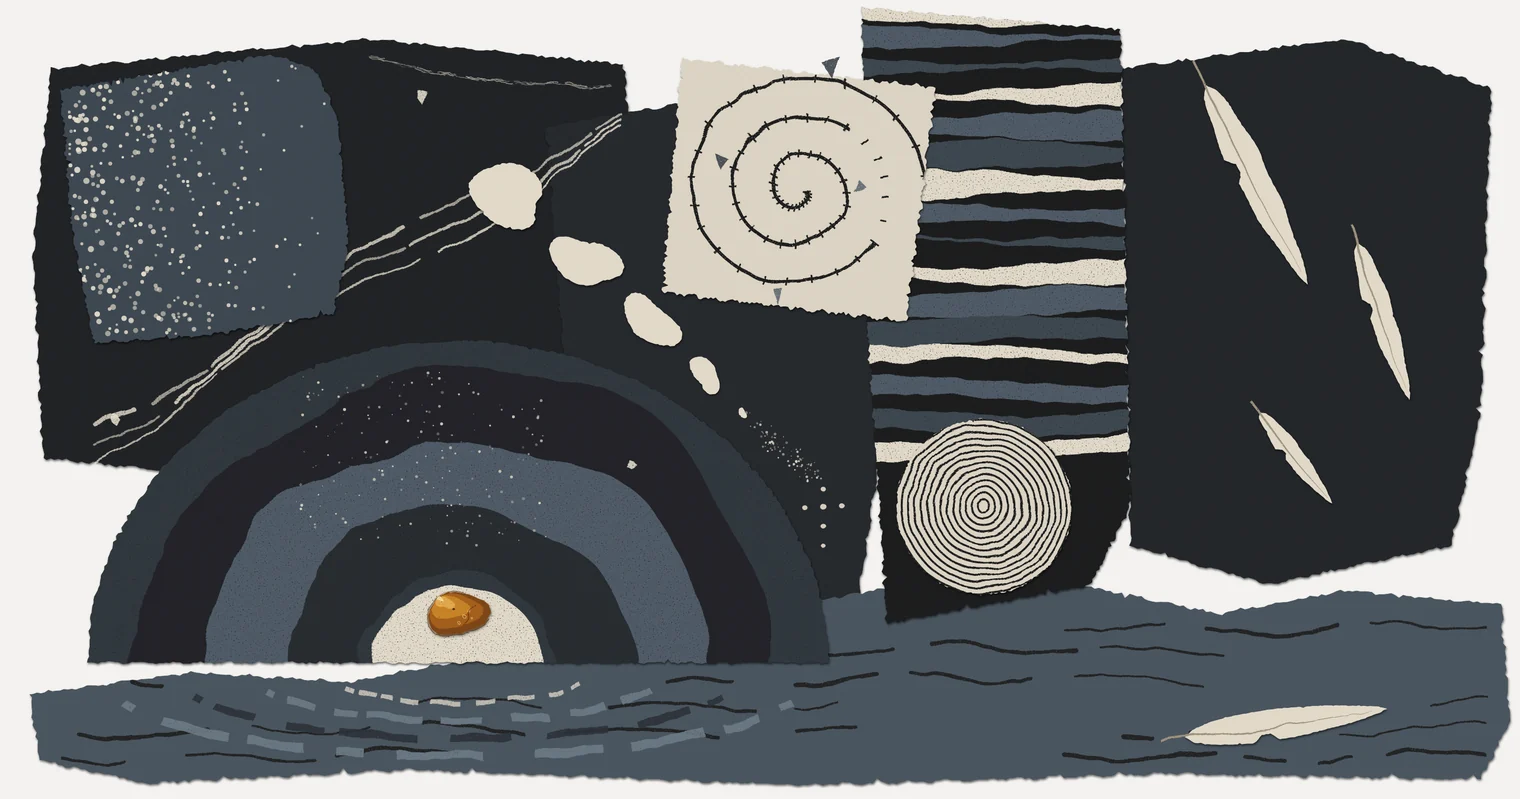
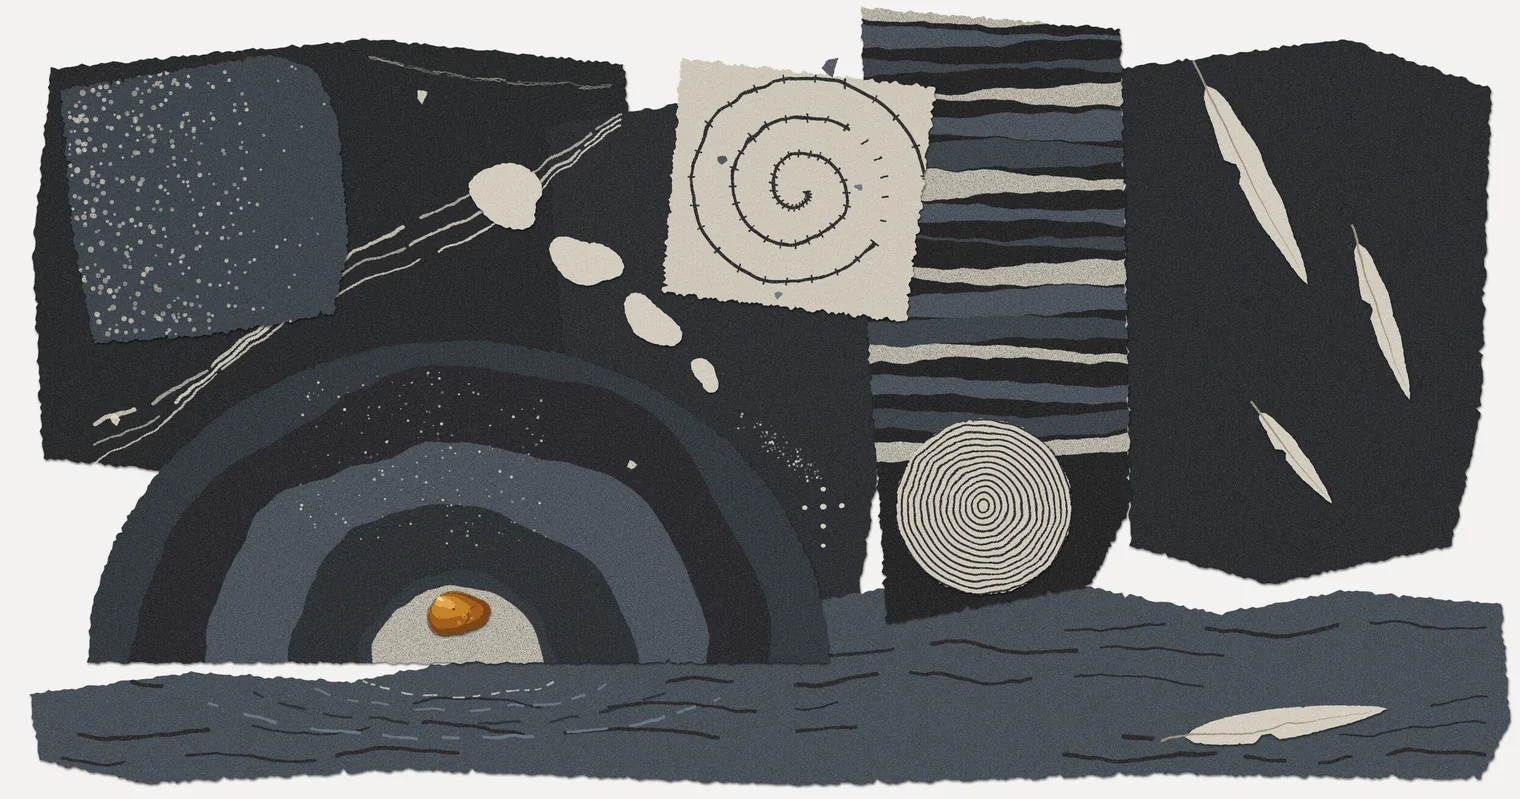
pliocene-coast: paper grain, living water, feathers on the swell
Every sheet and moving piece has fine paper fibre and a matte grain.
Rings of water are drawn thinner. The reflection under the rings spreads
outward ring by ring without end. When the swell reaches a feather lying
on the river it is lifted once, carried a little way and turned slightly;
the feather that was already afloat is now in the live layer so it can
move. Powder entering the river just fades. The triangle markers by the
railway are now small torn scraps.

Claude-Session: https://claude.ai/code/session_01Wb5bFrUxPpaySNQ4iWWfdK

diff --git a/components/pliocene-coast/src/pliocene-coast.js b/components/pliocene-coast/src/pliocene-coast.js
@@ -70,11 +70,17 @@ function run(root) {
     const grow = svg.querySelector('.grow'), len = grow.getTotalLength();
     const amber = svg.querySelector('.amin'), sand = svg.querySelector('.sand-in'), powder = svg.querySelector('.powder'), ripples = svg.querySelector('.ripples');
     const disc = svg.querySelector('.disc');
+    // the broken reflection of the rings on the river, which never quite holds still
+    const glints = [...svg.querySelectorAll('.glint')].map(el => ({ el, k: +el.dataset.k, m: +el.dataset.m, op: +el.getAttribute('opacity'), sw: +el.getAttribute('stroke-width'), ph: Math.random() * Math.PI * 2, w: 0.5 + Math.random() * 0.5 }));
     let spin = 0, turn = 0;
-    const feathers = [...svg.querySelectorAll('.feather')].filter((el, i) => DRIFT[i]).map(el => {
-      const d = DRIFT[[...svg.querySelectorAll('.feather')].indexOf(el)];
-      return { el, x: +el.dataset.x, y: +el.dataset.y, a: +el.dataset.a, dx: d.x, dy: d.y, da: d.a, at: d.at, fall: d.fall, swings: d.swings, landed: false, bob: 0 };
+    const gust = seed => { let q = seed * 9301 + 49297; const rnd = () => ((q = (q * 16807) % 2147483647) / 2147483647); return Array.from({ length: 12 }, rnd); };
+    const onSheet = [...svg.querySelectorAll('.feather:not(.afloat)')];
+    const feathers = onSheet.filter((el, i) => DRIFT[i]).map(el => {
+      const d = DRIFT[onSheet.indexOf(el)];
+      return { el, x: +el.dataset.x, y: +el.dataset.y, a: +el.dataset.a, dx: d.x, dy: d.y, da: d.a, at: d.at, fall: d.fall, swings: d.swings, landed: false, wt: 9, amp: 0, g: gust(d.x) };
     });
+    // the feather that was already lying on the river
+    const afloat = [...svg.querySelectorAll('.feather.afloat')].map(el => ({ el, x: +el.dataset.x, y: +el.dataset.y, wt: 9, amp: 0, afloat: true }));
     const chips = [...svg.querySelectorAll('.chip')].map((el, i) => {
       const [cx, cy, R] = CHIPS[i];
       el.style.transformBox = 'view-box'; el.style.transformOrigin = `${cx}px ${cy}px`;
@@ -104,10 +110,9 @@ function run(root) {
     };
     const inside = x => Math.abs((x - RINGS.cx) / RINGS.rx) < 0.985;
     const ground = x => { const u = (x - RINGS.cx) / RINGS.rx; return RINGS.cy - RINGS.ry * Math.sqrt(Math.max(0, 1 - u * u)) - 2; };
-    // a ring of water spreading out from where something touched the river
     // a ring of water, drawn by hand: a few broken arcs of uneven weight that spread out and fade
-    const RIPPLE_INK = '#1d2126', RIPPLE_STYLE = 'cut';
-    const ripple = (x, y, size, count, life = 2.4, width = 1.3, gap = 0.45) => {
+    const RIPPLE_INK = '#1d2126', RIPPLE_STYLE = 'cut', FLAT = 0.26;
+    const ripple = (x, y, size, count, life = 2.4, width = 1.3, gap = 0.45, src = null) => {
       if (rings.length > 24 && size < 60) return;
       for (let i = 0; i < count; i++) {
         const g = document.createElementNS(NS, 'g');
@@ -128,15 +133,15 @@ function run(root) {
           seg.setAttribute('stroke', RIPPLE_STYLE === 'cut' ? RIPPLE_INK : '#7f8c97');
           seg.setAttribute('stroke-linecap', 'round');
           seg.setAttribute('vector-effect', 'non-scaling-stroke');
-          seg.setAttribute('stroke-width', (width * (RIPPLE_STYLE === 'cut' ? 1.3 : 2.2) * (0.6 + Math.random() * 0.8)).toFixed(2));
+          seg.setAttribute('stroke-width', (width * (RIPPLE_STYLE === 'cut' ? 0.62 : 2.2) * (0.6 + Math.random() * 0.8)).toFixed(2));
           g.appendChild(seg);
           a0 = a1 + 0.15 + Math.random() * (RIPPLE_STYLE === 'cut' ? 0.5 : 0.25);
         }
         ripples.appendChild(g);
-        rings.push({ el: g, x, y, size, life, age: -i * gap });
+        rings.push({ el: g, x, y, size, life, age: -i * gap, src, reach: 0, hit: new Set() });
       }
     };
-    const placeFeather = (f, t, bob = 0) => {
+    const placeFeather = (f, t, bob = 0, tilt = 0, shift = 0) => {
       // a feather falls like a light leaf: it swings from side to side, tilting with the swing, nearly stops and
       // even lifts a little at each end, sinks as it passes through the middle, and swings less as it nears the water
       const u = t * t * (3 - 2 * t);
@@ -148,8 +153,8 @@ function run(root) {
       const x = f.x + (f.dx - f.x) * u + Math.sin(ph) * 46 * reach;
       const y = f.y + (f.dy - f.y) * Math.min(1, fallen) + bob;
       const flutter = Math.sin(t * 61) * 0.025 * reach + Math.sin(t * 37 + 1) * 0.015 * reach;
-      const rot = (f.da - f.a) * u + Math.cos(ph) * 0.42 * reach + flutter;
-      f.el.setAttribute('transform', `translate(${(x - f.x).toFixed(1)} ${(y - f.y).toFixed(1)}) rotate(${(rot * 180 / Math.PI).toFixed(2)} ${f.x} ${f.y})`);
+      const rot = (f.da - f.a) * u + Math.cos(ph) * 0.42 * reach + flutter + tilt;
+      f.el.setAttribute('transform', `translate(${(x - f.x + shift).toFixed(1)} ${(y - f.y).toFixed(1)}) rotate(${(rot * 180 / Math.PI).toFixed(2)} ${f.x} ${f.y})`);
     };
 
     function frame(now) {
@@ -196,11 +201,11 @@ function run(root) {
           const dir = Math.sign(p.x - RINGS.cx) || 1;
           p.vx = Math.min(140, Math.abs(p.vx) + 90 * dt) * dir;
           p.x += p.vx * dt; p.y = ground(p.x);
-          if (!inside(p.x)) { p.wet = 0.001; p.y = RINGS.cy + 4 + Math.random() * 8; if (Math.random() < 0.12) ripple(p.x, p.y, 16, 1); }
+          if (!inside(p.x)) { p.wet = 0.001; p.y = RINGS.cy + 4 + Math.random() * 8; }
         } else {
           p.vy += 260 * dt; p.vx *= 0.985; p.x += p.vx * dt; p.y += p.vy * dt;
           if (inside(p.x) && p.y >= ground(p.x)) { p.on = true; p.y = ground(p.x); p.vx = 10; }
-          else if (!inside(p.x) && p.y >= RINGS.cy + 4) { p.wet = 0.001; if (Math.random() < 0.12) ripple(p.x, p.y, 16, 1); }
+          else if (!inside(p.x) && p.y >= RINGS.cy + 4) { p.wet = 0.001; }
         }
         p.el.setAttribute('cx', p.x.toFixed(1)); p.el.setAttribute('cy', p.y.toFixed(1));
       }
@@ -208,27 +213,68 @@ function run(root) {
       // the feathers let go one after another and drift down onto the river
       const secs = (now - t0) / 1000;
       for (const f of feathers) {
-        if (f.landed) {
-          // once on the water it rocks gently twice and lies still
-          if (f.bob < 3) { f.bob += dt; busy = true; placeFeather(f, 1, Math.sin(f.bob * 4.2) * 2.4 * Math.exp(-f.bob * 1.4)); }
-          continue;
-        }
+        if (f.landed) continue;
         busy = true;
         const t = Math.min(1, Math.max(0, (secs - f.at) / f.fall));
         placeFeather(f, t);
-        if (t >= 1) { f.landed = true; f.bob = 0; ripple(f.dx, f.dy + 4, 190, 4, 4.2, 1.9, 0.6); }
+        // landing: rings go out from where it touched the water
+        if (t >= 1) { f.landed = true; ripple(f.dx, f.dy + 4, 220, 4, 4.4, 1.9, 0.6, f); }
+      }
+      // anything lying on the water is lifted and carried a little when a ring of water passes under it
+      const floating = [...afloat, ...feathers.filter(f => f.landed)];
+      for (const r of rings) {
+        if (r.age <= 0 || r.size < 60) continue;
+        // the swell travels on a little past the ring you can see, weakening as it goes
+        const q = r.age / r.life, rx = (6 + r.size * (1 - Math.pow(1 - q, 2))) * 2.1;
+        for (const f of floating) {
+          if (f === r.src || r.hit.has(f)) continue;
+          const fx = f.afloat ? f.x : f.dx, fy = f.afloat ? f.y : f.dy;
+          const d = Math.hypot(fx - r.x, (fy - r.y) / FLAT);
+          if (d > r.reach && d <= rx) {
+            r.hit.add(f);
+            // the swell lifts it once and carries it a little way outward, turning it slightly; it stays where it is left
+            const push = (r.size / 220) * Math.max(0.75, 1 - d / (r.size * 3));
+            const ang = Math.atan2((fy - r.y) / FLAT, fx - r.x), vary = 0.7 + Math.random() * 0.6;
+            f.from = [f.ox || 0, f.oy || 0, f.rr || 0];
+            f.to = [f.from[0] + Math.cos(ang) * 18 * push * vary, f.from[1] + Math.sin(ang) * 4 * push * vary, f.from[2] + (Math.random() - 0.5) * 0.09 * push];
+            f.lift = (4.5 + Math.random() * 1.5) * push; f.dur = 2.6 + Math.random() * 1.6; f.wt = 0;
+          }
+        }
+        r.reach = rx;
+      }
+      for (const f of floating) {
+        if (!f.from || f.wt > f.dur) continue;
+        f.wt = Math.min(f.dur, f.wt + dt); busy = true;
+        const p = f.wt / f.dur, e = p * p * (3 - 2 * p);
+        f.ox = f.from[0] + (f.to[0] - f.from[0]) * e; f.oy = f.from[1] + (f.to[1] - f.from[1]) * e; f.rr = f.from[2] + (f.to[2] - f.from[2]) * e;
+        const lift = f.lift * Math.pow(Math.sin(Math.PI * Math.min(1, p * 1.25)), 2);
+        if (f.afloat) f.el.setAttribute('transform', `translate(${f.ox.toFixed(2)} ${(f.oy - lift).toFixed(2)}) rotate(${(f.rr * 180 / Math.PI).toFixed(2)} ${f.x} ${f.y})`);
+        else placeFeather(f, 1, f.oy - lift, f.rr, f.ox);
       }
       // the disc turns like a record let go: pushed while the pointer rests on it, slowing to a stop on its own
       if (Math.hypot(px - DISC.x, py - DISC.y) < DISC.r) spin = Math.min(130, spin + 150 * dt);
       spin *= Math.exp(-0.45 * dt);
       if (spin > 0.4) { turn = (turn + spin * dt) % 360; disc.setAttribute('transform', `rotate(${turn.toFixed(2)} ${DISC.x} ${DISC.y})`); busy = true; }
       else spin = 0;
+      // the reflection spreads outward ring by ring from under the amber: each ring grows from small to wide,
+      // fading in and out, and the next one rises behind it, without end
+      const w = (now - t0) / 1000;
+      for (const g of glints) {
+        const R0 = (330 - g.k * 70) * 0.78;
+        const p = (w / 9 + (3 - g.k) / 4) % 1;
+        const R = 70 + p * 250, sc = R / R0;
+        const dx = Math.sin(w * 0.9 * g.w + g.ph) * 2.5;
+        g.el.setAttribute('transform', `translate(${RINGS.cx} 690) scale(${sc.toFixed(4)} ${sc.toFixed(4)}) translate(${(-RINGS.cx + dx / sc).toFixed(2)} -690)`);
+        g.el.setAttribute('opacity', (g.op * Math.pow(Math.sin(Math.PI * p), 1.2) * (0.75 + 0.25 * Math.sin(w * 1.1 * g.w + g.ph * 2.3))).toFixed(3));
+        g.el.setAttribute('stroke-width', (g.sw / Math.max(0.6, sc)).toFixed(2));
+      }
+      if (glints.length) busy = true;
       // rings of water spread and fade
       for (const r of rings) {
         r.age += dt;
         if (r.age < 0) { r.el.setAttribute('opacity', 0); continue; }
         const q = r.age / r.life, rx = 6 + r.size * (1 - Math.pow(1 - q, 2));
-        r.el.setAttribute('transform', `translate(${r.x} ${r.y}) scale(${rx.toFixed(1)} ${(rx * 0.22).toFixed(1)})`);
+        r.el.setAttribute('transform', `translate(${r.x} ${r.y}) scale(${rx.toFixed(1)} ${(rx * FLAT).toFixed(1)})`);
         r.el.setAttribute('opacity', Math.max(0, Math.min(1, q * 8) * Math.pow(1 - q, 1.3)).toFixed(2));
         if (q >= 1) { r.el.remove(); r.gone = true; }
       }
@@ -240,7 +286,8 @@ function run(root) {
     replay = () => {
       for (const c of chips) { c.life = 1; setChip(c); }
       powder.replaceChildren(); parts = []; ripples.replaceChildren(); rings = [];
-      for (const f of feathers) { f.landed = false; f.bob = 0; f.el.removeAttribute('transform'); }
+      for (const f of [...feathers, ...afloat]) { f.landed = false; f.from = null; f.ox = f.oy = f.rr = 0; f.el.removeAttribute('transform'); }
+      for (const g of glints) { g.el.removeAttribute('transform'); g.el.setAttribute('opacity', g.op); g.el.setAttribute('stroke-width', g.sw); }
       grow.style.strokeDashoffset = len; ax = ay = 0; turn = 0; disc.removeAttribute('transform');
       t0 = null; last = 0; wake();
     };

diff --git a/components/pliocene-coast/DESIGN.md b/components/pliocene-coast/DESIGN.md
@@ -19,7 +19,7 @@ Nothing is labelled and no line of the book appears. The places are only hinted 
 | The big dark rings | The Coal Sack, the black hole in the sky near where Campanella is gone |
 | The amber at its floor | The scorpion's fire, a body burning to light the dark |
 | The railway that breaks off | The journey that cannot be finished |
-| Small torn triangles by the line | The triangle markers lit along the track |
+| Small torn scraps by the line | The triangle markers lit along the track |
 | Five dots on the middle sheet | The Northern Cross |
 | A long blue grey river along the bottom, slit with ripples | The river Campanella goes into |
 | The broken arcs on the river under the rings | The dark hole and its amber, reflected and cut up by the water |
@@ -92,7 +92,7 @@ Every piece of paper has a close shadow the size of its thickness (0.6px across,
 
 ## Shapes
 
-Torn edges everywhere, never a clean cut. Ink on paper is printed: slightly displaced and with small gaps. Amber is a rounded pebble painted in layers, with bubbles, a crack, a dark speck and a hand drawn outline. Feathers are long and pointed with one nick in the vane, and a tapering quill that runs past the base. No sticker shapes, no icons.
+Torn edges everywhere, never a clean cut. Every sheet has fine paper fibre and a frosted, matte grain, lighter on the bone papers so they stay clean. Ink on paper is printed: slightly displaced and with small gaps. Amber is a rounded pebble painted in layers, with bubbles, a crack, a dark speck and a hand drawn outline. Feathers are long and pointed with one nick in the vane, and a tapering quill that runs past the base. No sticker shapes, no icons.
 
 ## Components
 
@@ -102,11 +102,11 @@ All still paper is baked into `assets/collage.webp` (3120 × 1640, transparent a
 
 ### Coming into view
 
-All at once: the railway winds out from its first point and stops past the break, the smallest bone chip crumbles to nothing and the next one starts to, the sand sinks a few pixels, the light inside the amber shifts and comes back, and two of the three feathers on the right let go one after another and drift down like light leaves: swinging from side to side and tilting with the swing, nearly stopping and lifting a little at each end, sinking through the middle, a fine flutter all the way, until they settle on the river and rock twice. Each one sends out four rings of water as it lands, drawn by hand like the slits in the river: broken arcs of uneven weight in the same dark ink, spreading and fading over about four seconds. The black and white disc on the strata turns like a record let go, about two thirds of a turn, slowing to a stop. The rest takes eight seconds; the last feather lands at about fifteen. Then it rests.
+All at once: the railway winds out from its first point and stops past the break, the smallest bone chip crumbles to nothing and the next one starts to, the sand sinks a few pixels, the light inside the amber shifts and comes back, and two of the three feathers on the right let go one after another and drift down like light leaves: swinging from side to side and tilting with the swing, nearly stopping and lifting a little at each end, sinking through the middle, a fine flutter all the way, until they settle on the river and rock twice. Each one sends out four rings of water as it lands, drawn by hand like the slits in the river: thin broken arcs of uneven weight in the same dark ink, spreading and fading over about four seconds. When the swell reaches a feather already lying on the water, that feather is lifted once, carried a little way outward and turned slightly, and stays where the water leaves it. The black and white disc on the strata turns like a record let go, about two thirds of a turn, slowing to a stop. The rest takes eight seconds; the last feather lands at about fifteen. Then it rests, except the broken reflection of the rings on the river, which keeps moving: ring after ring spreads outward from under the amber, fading as it widens, while the next one rises behind it.
 
 ### Touch
 
-Leave the pointer on a bone chip and it wears away into powder. The powder falls onto the rim of the dark rings, slides down it into the river, and fades out there in small rings of water; take the pointer away and it stops where it is. Nothing grows back. Near the amber, its inner light moves a pixel or two with the pointer. Rest the pointer on the black and white disc and it is pushed round again, then slows to a stop when the pointer leaves. Nothing runs while the piece is still, or off screen.
+Leave the pointer on a bone chip and it wears away into powder. The powder falls onto the rim of the dark rings, slides down it into the river, and fades out there; take the pointer away and it stops where it is. Nothing grows back. Near the amber, its inner light moves a pixel or two with the pointer. Rest the pointer on the black and white disc and it is pushed round again, then slows to a stop when the pointer leaves. Nothing runs while the piece is still, or off screen.
 
 With reduced motion the railway is shown whole, the feathers stay on their sheet, and nothing moves.
 
@@ -119,6 +119,6 @@ Clicking the collage opens it over a dimmed page with no rectangle behind its to
 - Do keep it one collage of cut paper; don't add cards, grids or labels.
 - Don't write any text on it, from the book or our own.
 - Do keep amber to the one piece.
-- Don't let anything loop; change only what was touched, and keep it changed. The powder is the exception: it is carried off by the river.
+- Don't let anything loop; change only what was touched, and keep it changed. The exceptions are water: the powder is carried off by the river, and the reflection keeps spreading outward.
 - Don't draw literal things from the book (trains, birds, apples): hint by shape only.
 - Don't stick small pieces flat on the open river; they read as stickers.
